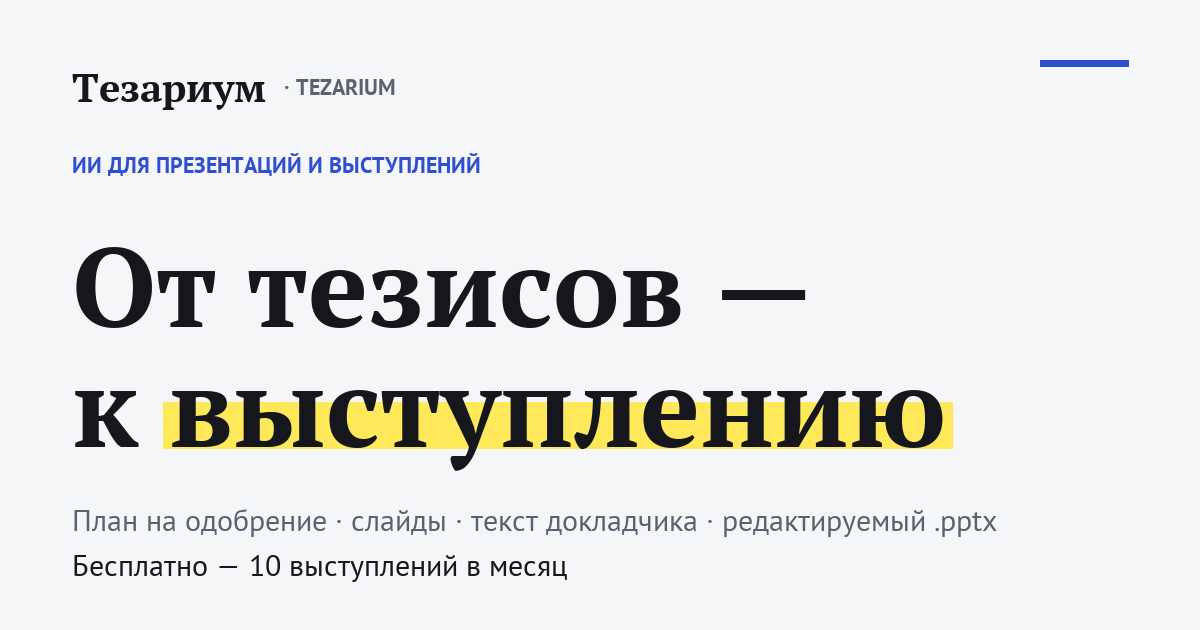
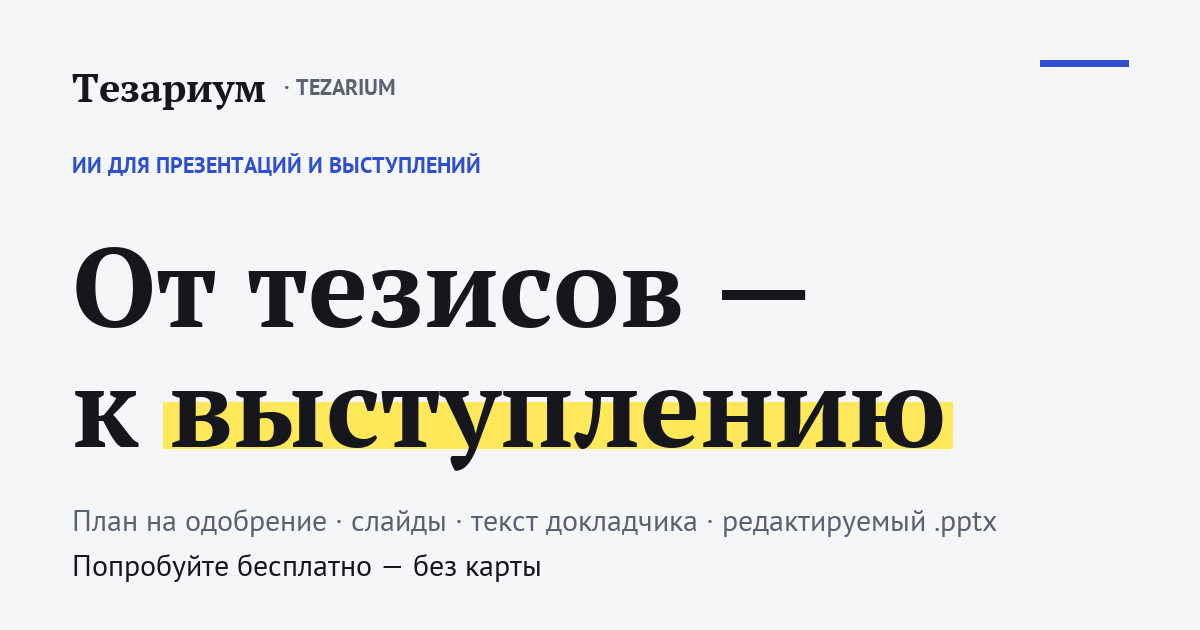
feat(plan): free is a trial — 2 talks, 1 .pptx, 2 PDF a month; download quota per format, surfaced in /me and the menu

Changed region(s): [[0.0617, 0.8746, 0.4625, 0.9349]]

diff --git a/frontend/src/pages/TalkPage.tsx b/frontend/src/pages/TalkPage.tsx
@@ -24,8 +24,15 @@ export default function TalkPage() {
   const navigate = useNavigate()
   const qc = useQueryClient()
   const { toast } = useToast()
-  const { user } = useAuth()
-  const pptxOpen = user?.features?.pptxExport ?? true
+  const { user, refresh } = useAuth()
+  // Downloads are metered per month on free (quota from /me). The menu must
+  // know before the click: a plain <a download> saves a 403 JSON as a file.
+  // After a click the count moves on the server, so /me is re-read a moment
+  // later and the next open of the menu shows the new state.
+  const left = (f: 'pptx' | 'pdf') => { const q = user?.quota?.[f]; return q && q.limit != null ? Math.max(0, q.limit - q.used) : Infinity }
+  const pptxOpen = left('pptx') > 0
+  const pdfOpen = left('pdf') > 0
+  const afterDownload = () => { setTimeout(() => void refresh(), 1500) }
   const { data: talk, isLoading, error } = useQuery({ queryKey: ['talk', id], queryFn: () => getTalk(id) })
   const { data: brandData } = useQuery({ queryKey: ['brand'], queryFn: getBrand, staleTime: 60_000 })
 
@@ -205,21 +212,31 @@ export default function TalkPage() {
                   403 JSON the browser would save as a file — so a locked .pptx
                   is a link to the tariff page, not a download that fails. */}
               {pptxOpen ? (
-                <a role="menuitem" href={`/api/talks/${id}/export.pptx${selQuery}`} download className="block px-3 py-2 text-sm text-ink hover:bg-surface-soft">
+                <a role="menuitem" href={`/api/talks/${id}/export.pptx${selQuery}`} download onClick={afterDownload} className="block px-3 py-2 text-sm text-ink hover:bg-surface-soft">
                   {selected.size > 0 ? copy.talk.downloadSelected('.pptx', selected.size) : copy.talk.downloadAll('.pptx')}
+                  {Number.isFinite(left('pptx')) && <span className="block text-xs text-ink-tertiary">{copy.billing.quotaLeft('.pptx', left('pptx'), user!.quota.pptx.limit!)}</span>}
                 </a>
               ) : (
                 <Link role="menuitem" to="/billing" className="flex items-center justify-between gap-2 px-3 py-2 text-sm text-ink-secondary hover:bg-surface-soft">
-                  {copy.billing.pptxLocked} <span className="text-accent text-xs font-medium">{copy.billing.upgradeLink} →</span>
+                  {copy.billing.quotaUsed('.pptx', user?.quota?.pptx.limit ?? 0)} <span className="text-accent text-xs font-medium">{copy.billing.upgradeLink} →</span>
                 </Link>
               )}
-              <a role="menuitem" href={`/api/talks/${id}/export.pdf${selQuery}`} download className="block px-3 py-2 text-sm text-ink hover:bg-surface-soft">
-                {selected.size > 0 ? copy.talk.downloadSelected('PDF', selected.size) : copy.talk.downloadAll('PDF')}
-              </a>
-              {talk.notes_enabled && (
-                <a role="menuitem" href={`/api/talks/${id}/export.pdf${selQuery}${selQuery ? '&' : '?'}notes=1`} download className="block px-3 py-2 text-sm text-ink hover:bg-surface-soft">
-                  {copy.talk.withNotes}
-                </a>
+              {pdfOpen ? (
+                <>
+                  <a role="menuitem" href={`/api/talks/${id}/export.pdf${selQuery}`} download onClick={afterDownload} className="block px-3 py-2 text-sm text-ink hover:bg-surface-soft">
+                    {selected.size > 0 ? copy.talk.downloadSelected('PDF', selected.size) : copy.talk.downloadAll('PDF')}
+                    {Number.isFinite(left('pdf')) && <span className="block text-xs text-ink-tertiary">{copy.billing.quotaLeft('PDF', left('pdf'), user!.quota.pdf.limit!)}</span>}
+                  </a>
+                  {talk.notes_enabled && (
+                    <a role="menuitem" href={`/api/talks/${id}/export.pdf${selQuery}${selQuery ? '&' : '?'}notes=1`} download onClick={afterDownload} className="block px-3 py-2 text-sm text-ink hover:bg-surface-soft">
+                      {copy.talk.withNotes}
+                    </a>
+                  )}
+                </>
+              ) : (
+                <Link role="menuitem" to="/billing" className="flex items-center justify-between gap-2 px-3 py-2 text-sm text-ink-secondary hover:bg-surface-soft">
+                  {copy.billing.quotaUsed('PDF', user?.quota?.pdf.limit ?? 0)} <span className="text-accent text-xs font-medium">{copy.billing.upgradeLink} →</span>
+                </Link>
               )}
               {selected.size > 0 && <button role="menuitem" type="button" onClick={() => setSelected(new Set())} className="block w-full text-left px-3 py-2 text-sm text-ink-secondary hover:bg-surface-soft">{copy.talk.clearSelection}</button>}
             </div>

diff --git a/backend/src/lib/planTier.ts b/backend/src/lib/planTier.ts
@@ -8,34 +8,55 @@ import { config } from './config'
 // feature cells allow-all. The spend caps are live everywhere because they
 // are cost protection, not pricing.
 export type PlanTier = 'free' | 'pro'
-export type PlanFeature = 'pptxExport'
+export type DownloadFormat = 'pptx' | 'pdf'
 
 export interface PlanLimits {
-  features:           Record<PlanFeature, boolean>
   talksPerMonth:      number    // talks CREATED (expansion completed) this calendar month
+  downloadsPerMonth:  Record<DownloadFormat, number>   // exports this calendar month, from talk_events
   monthlySpendCapUsd: number    // model spend this calendar month, from usage_log
 }
 
 /** Pro, per month, in roubles — the one price the product has. Kopecks go to T-Bank. */
 export const PRO_PRICE_RUB = 2500
 
-// Judgement, not evidence (§10): the free cap is sized so that a runaway
-// client cannot cost more than a coffee, and pro so that a heavy user with
-// 40-slide decks (~$0.05 each with notes, measured 2026-09-14) never meets
-// it in normal use. Revisit with usage_log, not with more design.
+// Free is a trial, not a plan (founder's call, 2026-09-15: «10 is a lot, I
+// will never get people to switch»): two talks a month, one .pptx and two
+// PDFs — enough to see the whole product once, not enough to live on. The
+// download quotas bite only where billing is on, like the old .pptx gate:
+// an install with no acquirer has nothing to upgrade to. The talk count
+// and the spend caps are live everywhere — the caps are cost protection,
+// sized so a runaway client cannot cost more than a coffee, and pro so a
+// heavy user with 40-slide decks (~$0.05 each with notes, measured
+// 2026-09-14) never meets it in normal use.
+const NO_LIMIT = Infinity
 export const PLAN_LIMITS: Record<PlanTier, PlanLimits> = {
-  free: { features: { pptxExport: !config.billing.enabled }, talksPerMonth: 10, monthlySpendCapUsd: 3 },
-  pro:  { features: { pptxExport: true }, talksPerMonth: Infinity, monthlySpendCapUsd: 30 },
+  free: { talksPerMonth: 2, downloadsPerMonth: config.billing.enabled ? { pptx: 1, pdf: 2 } : { pptx: NO_LIMIT, pdf: NO_LIMIT }, monthlySpendCapUsd: 3 },
+  pro:  { talksPerMonth: NO_LIMIT, downloadsPerMonth: { pptx: NO_LIMIT, pdf: NO_LIMIT }, monthlySpendCapUsd: 30 },
 }
 
 export function tierOf(raw: string | null | undefined): PlanTier {
   return raw === 'pro' ? 'pro' : 'free'
 }
 
-export function assertPlanFeature(planTier: string, feature: PlanFeature): void {
-  if (!PLAN_LIMITS[tierOf(planTier)].features[feature]) {
-    throw new PlanLimitError('Скачивание .pptx доступно на тарифе Pro', 'PLAN_FEATURE_LOCKED')
+const FORMAT_NAME: Record<DownloadFormat, string> = { pptx: '.pptx', pdf: 'PDF' }
+
+/** Throws when this month's downloads of `format` are used up. */
+export function assertDownloadQuota(planTier: string, format: DownloadFormat, usedThisMonth: number): void {
+  const limit = PLAN_LIMITS[tierOf(planTier)].downloadsPerMonth[format]
+  if (usedThisMonth >= limit) {
+    throw new PlanLimitError(
+      `Лимит скачиваний ${FORMAT_NAME[format]} на этот месяц исчерпан (${limit}). На тарифе Pro — без ограничения.`,
+      'PLAN_LIMIT_REACHED',
+    )
   }
+}
+
+/** What the UI shows and gates on: used / limit per month, `null` = no limit. */
+export interface PlanQuota { used: number; limit: number | null }
+export function quotaOf(planTier: string, used: { talks: number; pptx: number; pdf: number }): Record<'talks' | 'pptx' | 'pdf', PlanQuota> {
+  const L = PLAN_LIMITS[tierOf(planTier)]
+  const q = (u: number, limit: number): PlanQuota => ({ used: u, limit: Number.isFinite(limit) ? limit : null })
+  return { talks: q(used.talks, L.talksPerMonth), pptx: q(used.pptx, L.downloadsPerMonth.pptx), pdf: q(used.pdf, L.downloadsPerMonth.pdf) }
 }
 
 /** Throws when the workspace has already created its month's worth of talks. */

diff --git a/backend/src/routes/auth.ts b/backend/src/routes/auth.ts
@@ -5,16 +5,24 @@ import { asyncHandler } from '../lib/asyncHandler'
 import { signToken } from '../lib/jwt'
 import { setSessionCookie, clearSessionCookie } from '../lib/session'
 import { createUserWithWorkspace, findUserByEmail, findPublicUserById, type PublicUser } from '../db/queries/users'
-import { PLAN_LIMITS, tierOf } from '../lib/planTier'
+import { quotaOf } from '../lib/planTier'
+import { countTalksThisMonth } from '../db/queries/talks'
+import { countDownloadsThisMonth } from '../db/queries/talkEvents'
 import { recordTermsAcceptance } from '../db/queries/consent'
 import { passwordIsStrong, PASSWORD_RULES } from '../../../shared/password'
 import { config } from '../lib/config'
 
-// The UI reads the gate from here, never from the tier name: whether .pptx
-// is locked depends on billing being on in THIS installation.
-function withFeatures(user: PublicUser | null): PublicUser | null {
+// The UI reads the gate from here, never from the tier name: what is locked
+// depends on the tier AND on billing being on in THIS installation, and
+// on what was already used this month (quota). Three counts per /me — cheap
+// (indexed by workspace and month), and the menu must know before the
+// click, because a plain <a download> saves a 403 JSON as a file.
+async function withFeatures(user: PublicUser | null): Promise<PublicUser | null> {
   if (!user) return null
-  return { ...user, features: { pptxExport: PLAN_LIMITS[tierOf(user.plan_tier)].features.pptxExport, billing: config.billing.enabled } }
+  const [talks, pptx, pdf] = await Promise.all([
+    countTalksThisMonth(user.workspace_id), countDownloadsThisMonth(user.workspace_id, 'pptx'), countDownloadsThisMonth(user.workspace_id, 'pdf'),
+  ])
+  return { ...user, features: { billing: config.billing.enabled }, quota: quotaOf(user.plan_tier, { talks, pptx, pdf }) }
 }
 import { authenticate } from '../middleware/authenticate'
 import { UnauthorizedError, ValidationError } from '../errors/AppError'
@@ -52,7 +60,7 @@ authRouter.post('/register', authLimiter, asyncHandler(async (req, res) => {
   const user = await createUserWithWorkspace(email, await bcrypt.hash(password, 12), displayName)
   await recordTermsAcceptance(user.id)
   setSessionCookie(res, signToken({ id: user.id, ws: user.workspace_id }))
-  res.status(201).json({ user: withFeatures(await findPublicUserById(user.id)) })
+  res.status(201).json({ user: await withFeatures(await findPublicUserById(user.id)) })
 }))
 
 authRouter.post('/login', authLimiter, asyncHandler(async (req, res) => {
@@ -61,7 +69,7 @@ authRouter.post('/login', authLimiter, asyncHandler(async (req, res) => {
   // Same message for "no such user" and "wrong password".
   if (!user || !(await bcrypt.compare(password, user.password_hash))) throw new UnauthorizedError('Неверный e-mail или пароль')
   setSessionCookie(res, signToken({ id: user.id, ws: user.workspace_id }))
-  res.json({ user: withFeatures(await findPublicUserById(user.id)) })
+  res.json({ user: await withFeatures(await findPublicUserById(user.id)) })
 }))
 
 authRouter.post('/logout', (_req, res) => {
@@ -69,6 +77,6 @@ authRouter.post('/logout', (_req, res) => {
   res.status(204).end()
 })
 
-authRouter.get('/me', authenticate, (req, res) => {
-  res.json({ user: withFeatures(req.user) })
-})
+authRouter.get('/me', authenticate, asyncHandler(async (req, res) => {
+  res.json({ user: await withFeatures(req.user) })
+}))

diff --git a/backend/src/routes/talks.ts b/backend/src/routes/talks.ts
@@ -9,12 +9,12 @@ import { TALK_JOB_QUEUE, type TalkJobPayload } from '../services/talkJobWorker'
 import { normaliseEditedOutline, normaliseEditedSlide, regenerateSlide, applySlideMove, type GenerateParams } from '../services/talks'
 import { createTalkJob, getTalkJobById, confirmTalkJobOutline, createRewriteJob, clearRewriteProposal, type TalkJobRow } from '../db/queries/talkJobs'
 import { findTalkById, listTalks, deleteTalk, replaceSlides, countTalksThisMonth, createTalk, setShareToken, setTalkApproved } from '../db/queries/talks'
-import { recordTalkEvent } from '../db/queries/talkEvents'
+import { recordTalkEvent, countDownloadsThisMonth } from '../db/queries/talkEvents'
 import { generateTalkPptx } from '../services/talkExport'
 import { generateTalkPdf } from '../services/talkPdf'
 import { randomBytes } from 'node:crypto'
 import { parseSlideSelection, selectSlides, selectionSuffix, SelectionError } from '../lib/slideSelection'
-import { assertPlanFeature, assertTalkQuota } from '../lib/planTier'
+import { assertDownloadQuota, assertTalkQuota } from '../lib/planTier'
 import { resolveBrandKit } from '../services/brandKit'
 import { THEMES } from '../services/themes'
 import { setTalkTheme } from '../db/queries/talks'
@@ -173,7 +173,7 @@ talksRouter.get('/:id', asyncHandler(async (req, res) => {
 // GET /api/talks/:id/export.pptx[?slides=2,3,5] — the native deck. This is
 // the product (CLAUDE.md §2); the pricing gate sits on it (lib/planTier.ts).
 talksRouter.get('/:id/export.pptx', asyncHandler(async (req, res) => {
-  assertPlanFeature(req.user.plan_tier, 'pptxExport')
+  assertDownloadQuota(req.user.plan_tier, 'pptx', await countDownloadsThisMonth(req.user.workspace_id, 'pptx'))
   const talk = await findTalkById(req.params.id, req.user.workspace_id)
   if (!talk) throw new NotFoundError('Выступление не найдено')
   if (!talk.slides || talk.slides.length === 0) throw new ValidationError('У этого выступления ещё нет слайдов')
@@ -398,9 +398,10 @@ talksRouter.delete('/:id/slides/:idx/image', asyncHandler(async (req, res) => {
 
 // GET /api/talks/:id/export.pdf[?slides=…][&notes=1] — the slides as a PDF:
 // one 16:9 page per slide in the talk's theme and brand, optionally a notes
-// page after each. Not gated: the .pptx is the editable artefact the gate
-// exists for; the PDF is what gets sent to someone.
+// page after each. Quota-gated like the .pptx since 2026-09-15 (free: two a
+// month) — a PDF is the artefact that gets sent to someone, which is use.
 talksRouter.get('/:id/export.pdf', asyncHandler(async (req, res) => {
+  assertDownloadQuota(req.user.plan_tier, 'pdf', await countDownloadsThisMonth(req.user.workspace_id, 'pdf'))
   const talk = await findTalkById(req.params.id, req.user.workspace_id)
   if (!talk) throw new NotFoundError('Выступление не найдено')
   if (!talk.slides || talk.slides.length === 0) throw new ValidationError('У этого выступления ещё нет слайдов')

diff --git a/frontend/src/lib/copy.ts b/frontend/src/lib/copy.ts
@@ -72,6 +72,8 @@ export const copy = {
     talks: 'Выступления', newTalk: 'Новое выступление', newShort: 'Создать', brand: 'Бренд', plan: 'Тариф', logout: 'Выйти',
     works: 'Работы', workspace: 'Пространство', posts: 'Посты', ads: 'Реклама', soon: 'скоро',
     soonHint: (what: string) => `${what} — скоро. Тот же стол: тезисы → план → материал → экспорт.`,
+    // The rail's last line: the tier and this month's talks against the limit.
+    usage: (tier: string, used: number, limit: number | null) => limit == null ? tier : `${tier} · ${used} из ${limit} в этом месяце`,
   },
   auth: {
     loginTitle:    'Вход',
@@ -197,7 +199,7 @@ export const copy = {
     free:         'Бесплатный',
     pro:          'Pro',
     price:        (rub: number) => `${rub.toLocaleString('ru-RU')} ₽ в месяц`,
-    leadFree:     'Бесплатно — 10 выступлений в месяц, PDF, ссылка и режим докладчика. Pro — без ограничения по числу выступлений и с редактируемым .pptx.',
+    leadFree:     'Бесплатно — 2 выступления в месяц, 1 скачивание .pptx и 2 PDF, ссылка и режим докладчика. Pro — без ограничений.',
     leadPro:      'Выступлений без ограничения, редактируемый .pptx, PDF, ссылка и режим докладчика.',
     subscribe:    (rub: number) => `Перейти на Pro — ${rub.toLocaleString('ru-RU')} ₽ в месяц`,
     payAgain:     'Оплатить месяц',
@@ -226,6 +228,9 @@ export const copy = {
     off:          'Оплата в этой установке не подключена.',
     // Where a locked action sits (download menu, quota) — one line and a link.
     pptxLocked:   '.pptx — на тарифе Pro',
+    // The month's downloads of a format are used up: what happened, and the way out.
+    quotaUsed:    (fmt: string, limit: number) => `${fmt} — лимит на месяц исчерпан (${limit})`,
+    quotaLeft:    (fmt: string, left: number, limit: number) => `${fmt}: осталось ${left} из ${limit} в этом месяце`,
     upgradeLink:  'Перейти на Pro',
   },
   brandKit: {

diff --git a/backend/src/services/spendCap.test.ts b/backend/src/services/spendCap.test.ts
@@ -6,7 +6,7 @@ vi.mock('../lib/logger', () => ({ logger: { info: vi.fn(), warn: vi.fn(), error:
 
 import { checkSpendCap, invalidateSpendCapCache } from './spendCap'
 import { checkGlobalSpendCap, parseDailyCapUsd, GlobalSpendCapExceededError } from './globalSpendCap'
-import { pickEffectiveCap, assertTalkQuota, PLAN_LIMITS } from '../lib/planTier'
+import { pickEffectiveCap, assertTalkQuota, assertDownloadQuota, quotaOf, PLAN_LIMITS } from '../lib/planTier'
 import { SpendCapExceededError, PlanLimitError } from '../errors/AppError'
 
 beforeEach(() => { queryMock.mockReset(); invalidateSpendCapCache() })
@@ -66,9 +66,24 @@ describe('assertTalkQuota', () => {
   it('lets free create up to the limit and refuses the next with plural-correct copy', () => {
     expect(() => assertTalkQuota('free', PLAN_LIMITS.free.talksPerMonth - 1)).not.toThrow()
     expect(() => assertTalkQuota('free', PLAN_LIMITS.free.talksPerMonth)).toThrow(PlanLimitError)
-    try { assertTalkQuota('free', 99) } catch (e) { expect((e as PlanLimitError).message).toContain('10 выступлений') }
+    // Free is two a month (2026-09-15) — «2 выступления», the few-form.
+    try { assertTalkQuota('free', 99) } catch (e) { expect((e as PlanLimitError).message).toContain('2 выступления') }
   })
   it('pro is unlimited', () => {
     expect(() => assertTalkQuota('pro', 10_000)).not.toThrow()
+  })
+})
+
+describe('download quota', () => {
+  it('with billing off there is no download limit — nothing to upgrade to', () => {
+    // vitest runs with BILLING_ENABLED unset/0: the free downloads are unlimited.
+    expect(PLAN_LIMITS.free.downloadsPerMonth.pptx).toBe(Infinity)
+    expect(() => assertDownloadQuota('free', 'pptx', 1_000)).not.toThrow()
+    expect(quotaOf('free', { talks: 1, pptx: 3, pdf: 0 }).pptx).toEqual({ used: 3, limit: null })
+    expect(quotaOf('free', { talks: 1, pptx: 3, pdf: 0 }).talks).toEqual({ used: 1, limit: 2 })
+  })
+  it('pro is unlimited and reports null limits', () => {
+    expect(() => assertDownloadQuota('pro', 'pdf', 10_000)).not.toThrow()
+    expect(quotaOf('pro', { talks: 50, pptx: 50, pdf: 50 }).talks.limit).toBeNull()
   })
 })

diff --git a/frontend/src/components/layout/AppShell.tsx b/frontend/src/components/layout/AppShell.tsx
@@ -52,7 +52,10 @@ export default function AppShell() {
           {user?.plan_tier === 'pro' && <span className="ml-auto text-[10px] uppercase tracking-[0.08em] bg-accent-light text-accent rounded-full px-1.5 leading-4">Pro</span>}
         </NavLink>
         <div className="mt-auto pt-3 border-t border-border flex items-center gap-1 px-1">
-          <span className="text-xs text-ink-secondary truncate min-w-0 flex-1">{user?.display_name || user?.email}</span>
+          <div className="min-w-0 flex-1">
+            <div className="text-xs text-ink-secondary truncate">{user?.display_name || user?.email}</div>
+            {user?.quota && <NavLink to="/billing" className="block text-[11px] text-ink-tertiary hover:text-ink truncate">{copy.nav.usage(user.plan_tier === 'pro' ? 'Pro' : 'Free', user.quota.talks.used, user.quota.talks.limit)}</NavLink>}
+          </div>
           <ThemeToggle />
           <button onClick={signOut} title={copy.nav.logout} aria-label={copy.nav.logout}
                   className="h-9 w-9 inline-flex items-center justify-center rounded-md text-ink-secondary hover:text-ink hover:bg-surface flex-shrink-0">

diff --git a/frontend/src/lib/auth.tsx b/frontend/src/lib/auth.tsx
@@ -6,9 +6,11 @@ interface AuthState {
   loading:  boolean
   setUser:  (u: User | null) => void
   logout:   () => Promise<void>
+  /** Re-read /me — the quota moved (a download, a new talk). */
+  refresh:  () => Promise<void>
 }
 
-const Ctx = createContext<AuthState>({ user: null, loading: true, setUser: () => {}, logout: async () => {} })
+const Ctx = createContext<AuthState>({ user: null, loading: true, setUser: () => {}, logout: async () => {}, refresh: async () => {} })
 export const useAuth = () => useContext(Ctx)
 
 export function AuthProvider({ children }: { children: ReactNode }) {
@@ -20,6 +22,7 @@ export function AuthProvider({ children }: { children: ReactNode }) {
   }, [])
 
   const logout = async () => { await apiLogout().catch(() => null); setUser(null) }
+  const refresh = async () => { try { setUser(await me()) } catch { /* keep what we have */ } }
 
-  return <Ctx.Provider value={{ user, loading, setUser, logout }}>{children}</Ctx.Provider>
+  return <Ctx.Provider value={{ user, loading, setUser, logout, refresh }}>{children}</Ctx.Provider>
 }

diff --git a/backend/src/db/queries/talkEvents.ts b/backend/src/db/queries/talkEvents.ts
@@ -19,3 +19,13 @@ export function recordTalkEvent(e: TalkEvent): void {
     [e.talkId, e.workspaceId, e.userId, e.event, e.format ?? null, e.metadata ? JSON.stringify(e.metadata) : null],
   ).catch((err) => logger.warn({ message: 'Failed to record talk event', error: (err as Error).message }))
 }
+
+/** Exports of `format` from this workspace since the start of the calendar month — the download quota's count. */
+export async function countDownloadsThisMonth(workspaceId: string, format: 'pptx' | 'pdf'): Promise<number> {
+  const { rows } = await pool.query<{ n: string }>(
+    `SELECT COUNT(*)::text AS n FROM talk_events
+      WHERE workspace_id = $1 AND event = 'exported' AND format = $2 AND created_at >= date_trunc('month', NOW())`,
+    [workspaceId, format],
+  )
+  return Number(rows[0]?.n ?? 0)
+}

diff --git a/frontend/src/api/auth.ts b/frontend/src/api/auth.ts
@@ -9,7 +9,9 @@ export interface User {
   plan_tier:    string
   plan_expires_at: string | null
   /** The gate as it stands in this installation (billing off → everything open). */
-  features:     { pptxExport: boolean; billing: boolean }
+  features:     { billing: boolean }
+  // used / limit this calendar month; limit null = no limit (backend/src/lib/planTier.ts quotaOf)
+  quota:        Record<'talks' | 'pptx' | 'pdf', { used: number; limit: number | null }>
 }
 
 export const me       = () => client.get<{ user: User }>('/api/auth/me').then((r) => r.data.user)

diff --git a/backend/src/db/queries/users.ts b/backend/src/db/queries/users.ts
@@ -19,7 +19,8 @@ export interface PublicUser {
   plan_tier:    string
   plan_expires_at: string | null
   /** What this tier may do here — set by the auth route from lib/planTier.ts. */
-  features?:    { pptxExport: boolean; billing: boolean }
+  features?:    { billing: boolean }
+  quota?:       Record<'talks' | 'pptx' | 'pdf', { used: number; limit: number | null }>
 }
 
 export async function findUserByEmail(email: string): Promise<UserRow | null> {
